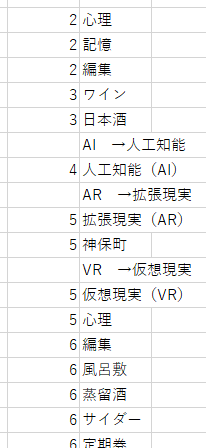
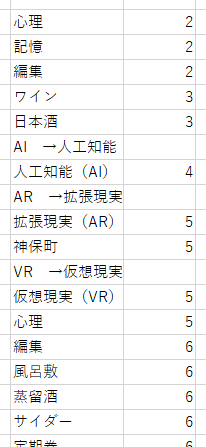
preformat to place nombre to right

Changed region(s): [[0.0, 0.0, 1.0, 1.0]]

diff --git a/tools/Preformat/index.html b/tools/Preformat/index.html
@@ -26,9 +26,14 @@
     </div>
     <p>入力した<a href="../NewTemplate/index.html">テンプレート</a>の<code>見よ先</code>が入力されている行について下記の整形をします。</p>
     <ul>
-        <li><code>　→</code>でつないで見よ項目形式にします。</li>
-        <li>見よ項目のノンブルを削除します。</li>
-        <li>代わりに同じノンブルで見よ先項目を作成します。</li>
+        <li>項目を左列に、ページを右列に配置します</li>
+        <li>見よ項目が入力されている場合：
+            <ul>
+                <li><code>　→</code>でつないで見よ項目を作成します</li>
+                <li>ノンブルを削除します</li>
+                <li>代わりに同じノンブルで見よ先項目を作成します</li>
+            </ul>
+        </li>
     </ul>
 </div>
 
@@ -38,8 +43,8 @@
     <table class="result">
         <thead>
             <tr>
-                <th>ノンブル</th>
                 <th>項目</td>
+                <th>ノンブル</th>
             </tr>
         </thead>
         <tbody></tbody>
@@ -67,8 +72,8 @@ function click_format() {
         const row = outputTable.insertRow(-1);
         const cell1 = row.insertCell(0);
         const cell2 = row.insertCell(1);
-        cell1.innerHTML = line.Nombre;
-        cell2.innerHTML = line.Item;
+        cell1.innerHTML = line.Item;
+        cell2.innerHTML = line.Nombre;
     });
 }
 
